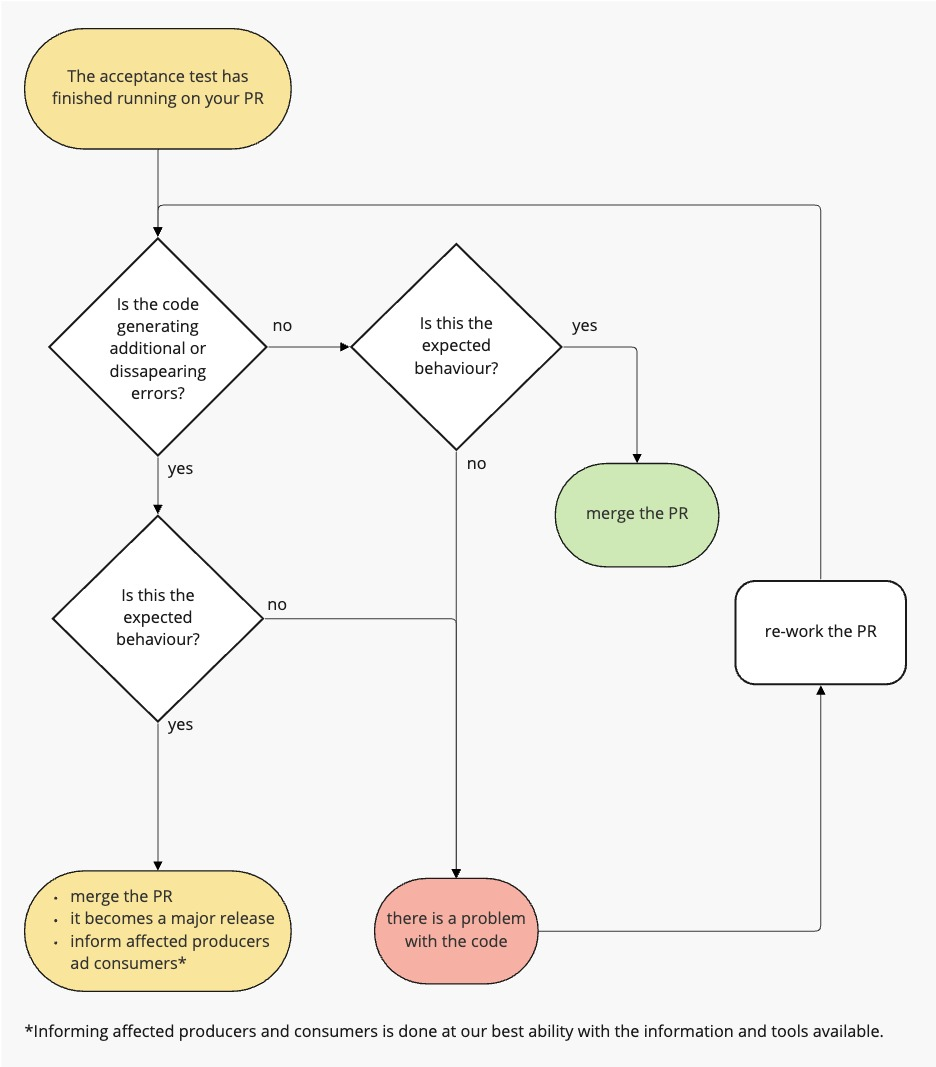
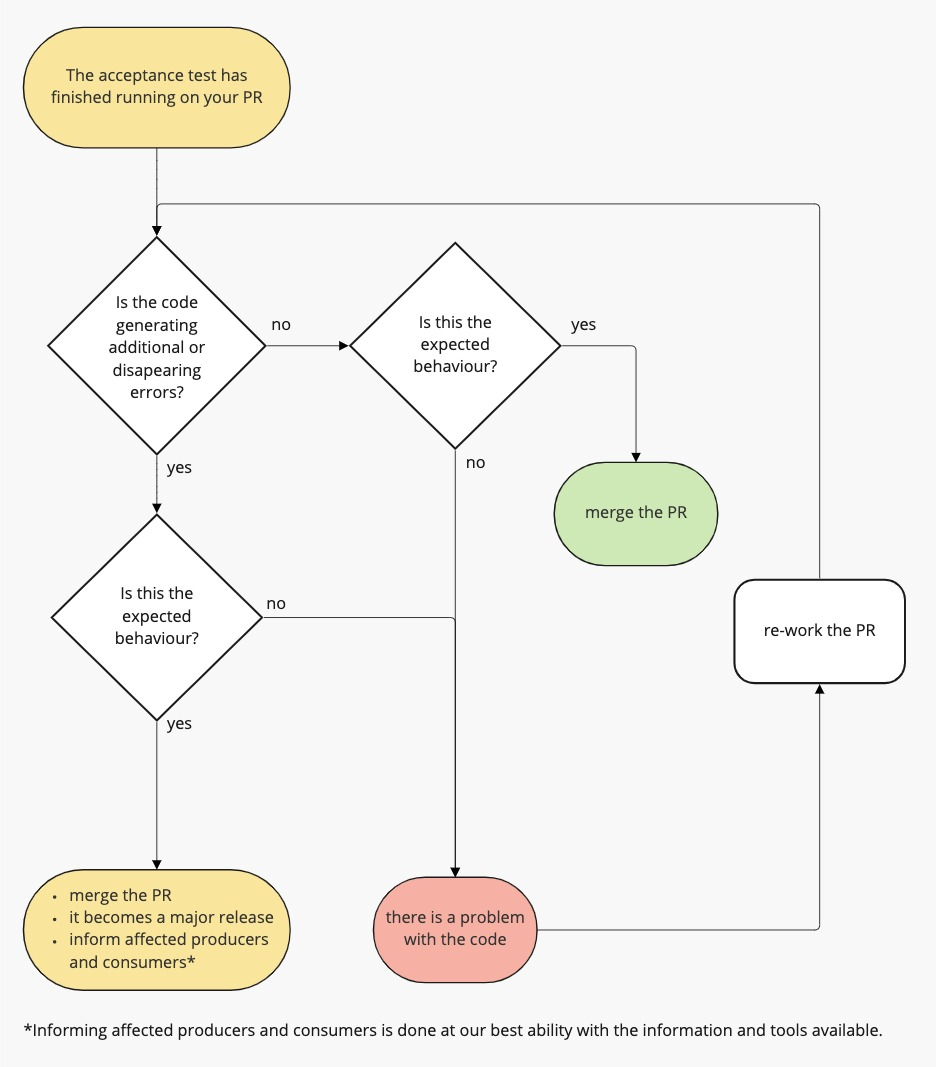
Docs: documentation updates (#1288)
* Resize image + add blank line

* Add files via upload

* Add files via upload

* Delete Acceptance-test-process.jpg

* Add files via upload

* Add files via upload

* Delete Acceptance-test-process.jpg

* Update CONTRIBUTING.md

* Update CONTRIBUTING.md

* update roles

* Update CONTRIBUTING.md

* Update CONTRIBUTING.md

* update roles

* add process

* Update ACCEPTANCE_TESTS.md

* Update CONTRIBUTING.md

* delete image

* Add files via upload

* Delete Validator contributors & MobilityData - acceptance test process.jpg

* Add files via upload

* add file

* update file name

diff --git a/docs/CONTRIBUTING.md b/docs/CONTRIBUTING.md
@@ -14,7 +14,7 @@ There are many ways to contribute to this project: improving code and documentat
 
 | Contribution type                                 | Description                                                                                                                                                                                                                                                                                                                                                                                                                                                                                                                                                                                                                                                                                                                           |
 |---------------------------------------------------|---------------------------------------------------------------------------------------------------------------------------------------------------------------------------------------------------------------------------------------------------------------------------------------------------------------------------------------------------------------------------------------------------------------------------------------------------------------------------------------------------------------------------------------------------------------------------------------------------------------------------------------------------------------------------------------------------------------------------------------|
-| Participate in the community                      | What makes this tool successful is its international & diverse community. One of the best ways to contribute is simply to be part of it! Participate in the discussions, answer on the newly opened issues, help others, attend the community meetings. This is all happening on [Slack](#MobilityData-slack), in the `#gtfs-validators` channel.                                                                                                                                                                                                                                                                                                                                                                                                                 |
+| Participate in the community                      | What makes this tool successful is its international & diverse community. One of the best ways to contribute is simply to be part of it! Participate in the discussions, answer on the newly opened issues, help others, attend the community meetings. We have a dedicated [Slack](#MobilityData-slack) and host monthly [Contributor meetings](#Contributor-meetings).                                                                                                                                                                                                                                                                                                                                   |
 | Comment or vote on issues issues already opened  | We use the [GitHub issue tracker](https://github.com/MobilityData/gtfs-validator/issues) to capture bugs, new feature ideas and improvements.  If you see an issue that is relevant to you, give a thumbs up or comment. This will increase the priority of the issue, and it will be solved earlier as a result!                                                                                                                                                                                                                                                                                                                                                                                                                     |
 | Share your ideas and report issues you’re facing  | Not sure if this is an issue with the tool or something you are doing wrong? We encourage you to still open an issue, even if it is just to ask a question. If something is not working or is unclear to you, chances are you’re not the only one. See the [Submitting a feature request or a bug report](#Submitting-a-feature-request-or-a-bug-report) for more information.                                                                                                                                                                                                                                                                                                                                                        |   |
 | Spread the word                                   | Reference this project in your articles, on your website, or simply mention that you use it. This will help its implementation & improve collaboration in the GTFS ecosystem.                                                                                                                                                                                                                                                                                                                                                                                                                                                                                                                                                         |
@@ -25,8 +25,10 @@ There are many ways to contribute to this project: improving code and documentat
 
 ## MobilityData slack
 To join the slack, please fill this ["Request to join"](https://docs.google.com/forms/d/e/1FAIpQLSczZbZB9ql_Xl-1uBtmvYmA0fwfm1UX92SyWAdkuMEDfxac5w/viewform) form. Then, you will receive your invitation via the e-mail provided. 
-After joining, you can add the `gtfs-validators` channel and introduce yourself there. This channel is dedicated to the GTFS Schedule and Realtime validators, and this is where users can ask questions, share their intention to contribute, and receive any news related to these tools, such as release notifications.
-MobilityData also has a private channel to discuss more technical questions, and synchronize efforts among active contributors. You will be offered to join this channel after you have merged a few PRs! 
+After joining, you can add the `gtfs-validators` channel and introduce yourself there. This channel is dedicated to the GTFS Schedule and Realtime validators, and this is where users can ask questions, share their intention to contribute, and receive any important news. 
+
+## Contributor meeting
+We host a monthly contributor meeting to keep track of current projects, discuss requirements, unblock contributors, and organize cross-organization projects. Anybody can join, even if it's just to listen. If you'd like to participate, please reach-out to Isabelle via Slack.
 
 ## Roles and Responsibilities
 **Contributors**
@@ -47,12 +49,12 @@ Remove the Needs triage label and replace it with the appropriate status label (
 
 **Core developers**
 
-Contributors who actively push to the project. They can perform code reviews, request changes, approve and merge Pull Requests. Core developers have Write permissions to the repository. The current core developers for this project are [Maxime Armstrong](https://github.com/maximearmstrong) and [Brian Ferris](https://github.com/bdferris-v2).
+Contributors who actively push to the project. They can perform code reviews, request changes, approve and merge Pull Requests. Core developers have Write permissions to the repository. The current core developers for this project are [Maxime Armstrong](https://github.com/maximearmstrong) and [Brian Ferris](https://github.com/bdferris-v2), [Kevin Clough](https://github.com/KClough), [Alexei Ababilov](https://github.com/aababilov) and [Artur Svechnikov](https://github.com/asvechnikov2).
 @TODO how to become a core developer
 
-**Technical committee**
-The technical committee is composed of core developers and the product manager, who have additional responsibilities to ensure the project runs smoothly and the progress is in line with the big picture vision: they discuss considerable changes to the project, perform strategic planning, and approve changes to the governance model. 
-The Steering committee currently consists of [Isabelle de Robert](https://github.com/isabelle-dr), [Maxime Armstrong](https://github.com/maximearmstrong), and [Brian Ferris](https://github.com/bdferris-v2).
+**Steering committee**
+The steering committee is composed of core developers and the product manager, who have additional responsibilities to ensure the project runs smoothly and the progress is in line with the big picture vision: they discuss considerable changes to the project, perform strategic planning, and approve changes to the governance model. 
+The Steering committee currently consists of [Isabelle de Robert](https://github.com/isabelle-dr) and [Brian Ferris](https://github.com/bdferris-v2).
 @TODO how to join the steering committee.
 
 ## Overview of the contribution process
@@ -86,7 +88,7 @@ This process is described in more detail in the GitHub documentation [**Contribu
 
 This image shows the tests implemented in the Pull Request process.
 
-<img src="/docs/Pull-Request-process.jpg" width="750">
+<img src="/docs/Pull-Request-process.jpg" width="700">
 
 ## Pull Request comments and reviews
 Reviewing Pull Requests is a great way to get familiar with the code & architecture of this tool, and to make sure a functionality meets your needs. Each Pull Request has to be approved by at least one one core developer, but having community members helping with this process is significant for the MobilityData team. Additionally, having the eyes of people from different expertise and backgrounds on a contribution makes it higher quality (nobody can think of everything!).
@@ -126,8 +128,10 @@ The [NEW_RULES.md](/docs/NEW_RULES.md) document includes step-by-step instructio
 A critical step in troubleshooting is being able to reproduce the problem. Instructions to publicly reproduce errors using GitHub Actions can be found in our [guide to reproduce errors](/docs/REPRODUCE_ERRORS.md).
 
 **What to do with the acceptance test results?**
-The acceptance test is a key part of the Pull Request process. More information about this test is available in the [ACCEPTANCE_TEST.md](/docs/ACCEPTANCE_TESTS.md) file
-<img src="/docs/Acceptance-test-process.jpg" width="700">
+
+The acceptance test is a key part of the Pull Request process. More information about this test is available in the [ACCEPTANCE_TEST.md](/docs/ACCEPTANCE_TESTS.md) file.
+
+<img src="/docs/Acceptance-test-process.jpg" width="650">
 
 **How to run tests locally?**
 

diff --git a/docs/ACCEPTANCE_TESTS.md b/docs/ACCEPTANCE_TESTS.md
@@ -123,6 +123,11 @@ Where each source id value come from the MobilityDatabase: they are a unique [pr
 
 The source id can be used to find all datasets versions of a source on the [MobilityDatabase](http://old.mobilitydatabase.org/wiki/Main_Page) for the sakes of debugging or exploration.
 
+## What do we do with the results?
+We follow this process:
+
+<img src="/docs/Acceptance-test-process.jpg" width="750">
+
 ## Instructions to run the pipeline
 
 1. Provide code changes by creating a new PR on the [GitHub repository](https://github.com/MobilityData/gtfs-validator);
